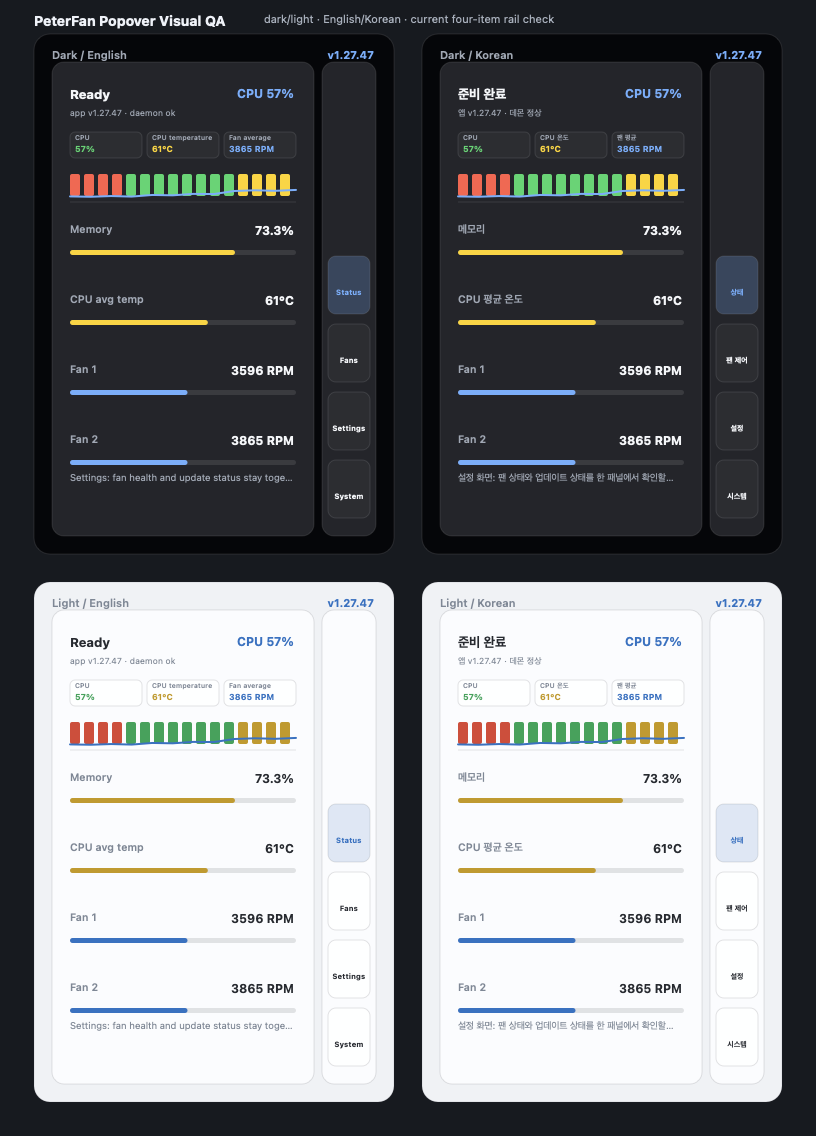
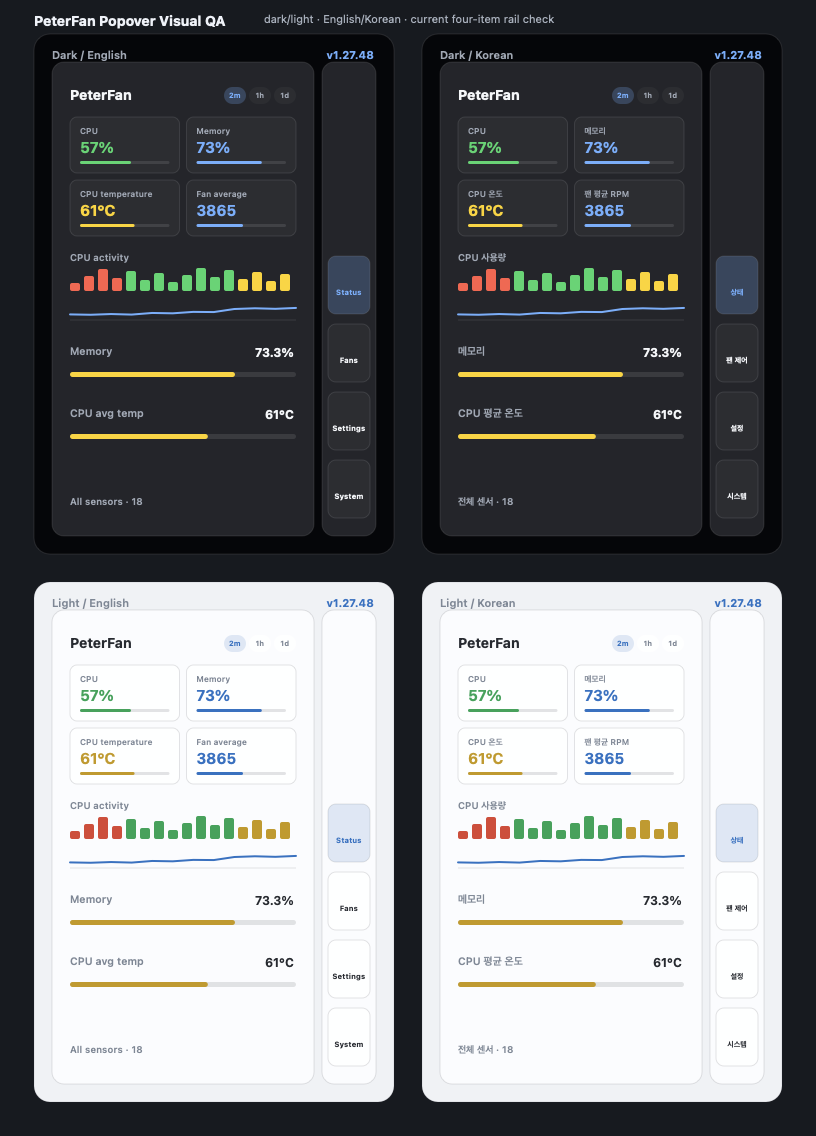
style(design): FINDING-001 — strengthen live status hierarchy

diff --git a/scripts/render-popover-qa.swift b/scripts/render-popover-qa.swift
@@ -152,50 +152,60 @@ func drawCase(_ spec: CaseSpec, origin: CGPoint) {
     rounded(panel, radius: 12, fill: p.panel, stroke: p.line)
     rounded(rail, radius: 12, fill: p.panel, stroke: p.line)
 
-    text(label("Ready", "준비 완료", spec), NSRect(x: panel.minX + 18, y: panel.maxY - 42, width: 132, height: 18), 13, p.text, weight: .bold)
-    text(label("CPU 57%", "CPU 57%", spec), NSRect(x: panel.maxX - 90, y: panel.maxY - 42, width: 70, height: 18), 12, p.accent, weight: .bold, align: .right)
-    text(label("app v\(version) · daemon ok", "앱 v\(version) · 데몬 정상", spec), NSRect(x: panel.minX + 18, y: panel.maxY - 62, width: 214, height: 16), 8.5, p.dim)
-
-    let summary: [(String, String, NSColor)] = [
-        (label("CPU", "CPU", spec), "57%", p.green),
-        (label("CPU temperature", "CPU 온도", spec), "61°C", p.yellow),
-        (label("Fan average", "팬 평균", spec), "3865 RPM", p.accent),
-    ]
-    let summaryGap: CGFloat = 5
-    let summaryWidth = (226 - summaryGap * 2) / 3
-    for (index, item) in summary.enumerated() {
-        let x = panel.minX + 18 + CGFloat(index) * (summaryWidth + summaryGap)
-        rounded(NSRect(x: x, y: panel.maxY - 96, width: summaryWidth, height: 26), radius: 5, fill: p.section, stroke: p.line)
-        text(item.0, NSRect(x: x + 5, y: panel.maxY - 82, width: summaryWidth - 10, height: 10), 6.7, p.dim, weight: .semibold)
-        text(item.1, NSRect(x: x + 5, y: panel.maxY - 92, width: summaryWidth - 10, height: 10), 8.4, item.2, weight: .bold)
+    text("PeterFan", NSRect(x: panel.minX + 18, y: panel.maxY - 42, width: 110, height: 18), 14, p.text, weight: .bold)
+    let ranges = ["2m", "1h", "1d"]
+    for (index, range) in ranges.enumerated() {
+        let x = panel.maxX - 90 + CGFloat(index) * 25
+        let selected = index == 0
+        rounded(
+            NSRect(x: x, y: panel.maxY - 42, width: 22, height: 17),
+            radius: 8.5,
+            fill: selected ? p.accent.withAlphaComponent(spec.isDark ? 0.24 : 0.15) : p.section
+        )
+        text(range, NSRect(x: x, y: panel.maxY - 39, width: 22, height: 10), 7.2, selected ? p.accent : p.dim, weight: .bold, align: .center)
     }
 
-    let barsY = panel.maxY - 134
+    let summary: [(String, String, CGFloat, NSColor)] = [
+        (label("CPU", "CPU", spec), "57%", 0.57, p.green),
+        (label("Memory", "메모리", spec), "73%", 0.73, p.accent),
+        (label("CPU temperature", "CPU 온도", spec), "61°C", 0.61, p.yellow),
+        (label("Fan average", "팬 평균 RPM", spec), "3865", 0.52, p.accent),
+    ]
+    let summaryGap: CGFloat = 7
+    let summaryWidth = (226 - summaryGap) / 2
+    let summaryHeight: CGFloat = 56
+    for (index, item) in summary.enumerated() {
+        let column = index % 2
+        let row = index / 2
+        let x = panel.minX + 18 + CGFloat(column) * (summaryWidth + summaryGap)
+        let y = panel.maxY - 111 - CGFloat(row) * (summaryHeight + summaryGap)
+        rounded(NSRect(x: x, y: y, width: summaryWidth, height: summaryHeight), radius: 7, fill: p.section, stroke: p.line)
+        text(item.0, NSRect(x: x + 10, y: y + 35, width: summaryWidth - 20, height: 12), 8.2, p.dim, weight: .semibold)
+        text(item.1, NSRect(x: x + 10, y: y + 16, width: summaryWidth - 20, height: 19), 15, item.3, weight: .bold)
+        meter(NSRect(x: x + 10, y: y + 9, width: summaryWidth - 20, height: 3), value: item.2, color: item.3, palette: p)
+    }
+
+    text(label("CPU activity", "CPU 사용량", spec), NSRect(x: panel.minX + 18, y: panel.maxY - 204, width: 120, height: 14), 9.5, p.dim, weight: .semibold)
+    let barsY = panel.maxY - 229
     for i in 0..<16 {
         let color = i < 4 ? p.red : (i < 12 ? p.green : p.yellow)
-        rounded(NSRect(x: panel.minX + 18 + CGFloat(i) * 14, y: barsY, width: 10, height: 22), radius: 2, fill: color)
+        let height: CGFloat = 8 + CGFloat((i * 7) % 16)
+        rounded(NSRect(x: panel.minX + 18 + CGFloat(i) * 14, y: barsY, width: 10, height: height), radius: 2, fill: color)
     }
-    sparkline(NSRect(x: panel.minX + 18, y: panel.maxY - 148, width: 226, height: 34), values: [0.2, 0.18, 0.22, 0.19, 0.28, 0.26, 0.34, 0.33, 0.50, 0.54, 0.51, 0.56], palette: p)
+    sparkline(NSRect(x: panel.minX + 18, y: panel.maxY - 266, width: 226, height: 34), values: [0.2, 0.18, 0.22, 0.19, 0.28, 0.26, 0.34, 0.33, 0.50, 0.54, 0.51, 0.56], palette: p)
 
     let rows: [(String, String, CGFloat, NSColor)] = [
         (label("Memory", "메모리", spec), "73.3%", 0.73, p.yellow),
         (label("CPU avg temp", "CPU 평균 온도", spec), "61°C", 0.61, p.yellow),
-        (label("Fan 1", "Fan 1", spec), "3596 RPM", 0.52, p.accent),
-        (label("Fan 2", "Fan 2", spec), "3865 RPM", 0.52, p.accent),
     ]
     for (index, row) in rows.enumerated() {
-        let y = panel.maxY - 206 - CGFloat(index) * 70
+        let y = panel.maxY - 328 - CGFloat(index) * 62
         text(row.0, NSRect(x: panel.minX + 18, y: y + 28, width: 128, height: 17), 10.5, p.dim, weight: .semibold)
         text(row.1, NSRect(x: panel.maxX - 92, y: y + 28, width: 72, height: 17), 12, p.text, weight: .bold, align: .right)
         meter(NSRect(x: panel.minX + 18, y: y + 13, width: 226, height: 5), value: row.2, color: row.3, palette: p)
     }
 
-    let notes = label(
-        "Settings: fan health and update status stay together in one compact pane.",
-        "설정 화면: 팬 상태와 업데이트 상태를 한 패널에서 확인할 수 있어야 합니다.",
-        spec
-    )
-    text(notes, NSRect(x: panel.minX + 18, y: panel.minY + 20, width: 226, height: 44), 9.5, p.dim)
+    text(label("All sensors · 18", "전체 센서 · 18", spec), NSRect(x: panel.minX + 18, y: panel.minY + 24, width: 226, height: 16), 9.5, p.dim, weight: .semibold)
 
     let railLabels = [
         label("Status", "상태", spec),

diff --git a/packages/menubar/src/main.rs b/packages/menubar/src/main.rs
@@ -5069,6 +5069,38 @@ body.compact[data-rail-view="system"] .foot.compact-extra{display:block!importan
 .range-tab{background:var(--chip-bg);border:1px solid transparent;color:var(--dim);font:inherit;font-size:9.5px;font-weight:600;padding:3px 9px;border-radius:99px;cursor:pointer;transition:background .15s,color .15s;}
 .range-tab:hover{background:var(--chip-hover);}
 .range-tab.active{background:rgba(91,157,255,.22);color:var(--accent);}
+/* Product hierarchy: strong live summary, quiet detail surfaces, and a compact tool rail. */
+.range-tabs{margin:8px 8px 10px;padding:10px 10px;min-height:44px;border:1px solid var(--line);border-radius:8px;background:var(--chip-bg);}
+.view-title{font-size:16px;font-weight:760;letter-spacing:0;}
+.range-tab{padding:4px 9px;font-size:9px;font-weight:720;}
+.summary-strip{grid-template-columns:repeat(2,minmax(0,1fr));gap:7px;padding:0 14px 14px;}
+.summary-cell{position:relative;min-height:67px;padding:10px 11px 9px;border-radius:8px;background:rgba(255,255,255,.035);overflow:hidden;}
+.summary-cell::after{content:"";position:absolute;inset:auto 0 0;height:1px;background:var(--summary-accent,var(--line));opacity:.7;}
+.summary-cell.cpu{--summary-accent:var(--g);}
+.summary-cell.memory{--summary-accent:var(--accent);}
+.summary-cell.temperature{--summary-accent:var(--y);}
+.summary-cell.fan{--summary-accent:var(--accent);}
+.summary-label{font-size:9.5px;font-weight:680;letter-spacing:0;}
+.summary-value{margin-top:4px;font-size:20px;line-height:1.05;font-weight:760;letter-spacing:0;}
+.summary-meter{display:block;height:3px;margin-top:8px;border-radius:99px;background:var(--track);overflow:hidden;}
+.summary-meter .bar-fill{display:block;}
+.main-pane{background:rgba(255,255,255,.018);}
+.row{grid-template-columns:22px minmax(0,1fr);gap:12px;padding:15px var(--content-x);}
+.ic{opacity:.88;}
+.name{font-size:11px;font-weight:720;}
+.val{font-size:14px;font-weight:720;}
+.sub{margin-top:3px;}
+.cores{height:24px;margin-top:9px;background:rgba(255,255,255,.045);}
+.chart{height:34px;margin-top:10px;}
+.action-rail{gap:5px;padding-top:8px;}
+.rail-btn{height:48px;border-radius:8px;transition:background .15s,color .15s,border-color .15s,box-shadow .15s;}
+.rail-btn svg{width:20px;height:20px;}
+.rail-btn.active{background:rgba(91,157,255,.14);border-color:rgba(91,157,255,.3);box-shadow:inset 2px 0 0 var(--accent);}
+@media (prefers-color-scheme: light){
+.summary-cell{background:rgba(255,255,255,.78);}
+.main-pane{background:rgba(255,255,255,.42);}
+.cores{background:rgba(0,0,0,.055);}
+}
 </style></head><body class="compact" data-rail-view="overview"><div class="panel"><div class="dashboard-shell"><main class="main-pane">
 
 <div class="range-tabs" id="range-tabs">
@@ -5079,9 +5111,10 @@ body.compact[data-rail-view="system"] .foot.compact-extra{display:block!importan
 </div>
 
 <div class="summary-strip" id="summary-strip" aria-label="Live summary">
-<div class="summary-cell"><span class="summary-label" id="summary-cpu-label">CPU</span><span class="summary-value" id="summary-cpu">—</span></div>
-<div class="summary-cell"><span class="summary-label" id="summary-temp-label">CPU temperature</span><span class="summary-value" id="summary-temp">—</span></div>
-<div class="summary-cell"><span class="summary-label" id="summary-fan-label">Fan average</span><span class="summary-value" id="summary-fan">—</span></div>
+<div class="summary-cell cpu"><span class="summary-label" id="summary-cpu-label">CPU</span><span class="summary-value" id="summary-cpu">—</span><span class="summary-meter"><span class="bar-fill" id="summary-cpu-bar"></span></span></div>
+<div class="summary-cell memory"><span class="summary-label" id="summary-mem-label">Memory</span><span class="summary-value" id="summary-mem">—</span><span class="summary-meter"><span class="bar-fill" id="summary-mem-bar"></span></span></div>
+<div class="summary-cell temperature"><span class="summary-label" id="summary-temp-label">CPU temperature</span><span class="summary-value" id="summary-temp">—</span><span class="summary-meter"><span class="bar-fill" id="summary-temp-bar"></span></span></div>
+<div class="summary-cell fan"><span class="summary-label" id="summary-fan-label">Fan average</span><span class="summary-value" id="summary-fan">—</span><span class="summary-meter"><span class="bar-fill info" id="summary-fan-bar"></span></span></div>
 </div>
 
 <div class="data-loading" id="data-loading" role="status" aria-live="polite"><span class="data-loading-dot"></span><span id="data-loading-text">Reading system sensors…</span><button class="loading-retry" id="data-loading-retry" style="display:none" onclick="retryDashboard()">Retry</button></div>
@@ -5364,7 +5397,7 @@ function applyRailView(resetScroll){
     ?(LANG==='ko'?'팬 제어':'Fans')
     :(view==='settings'
       ?(LANG==='ko'?'설정':'Settings')
-      :(view==='system'?(LANG==='ko'?'시스템':'System'):(LANG==='ko'?'상태':'Status')));
+      :(view==='system'?(LANG==='ko'?'시스템':'System'):'PeterFan'));
   if(resetScroll)resetRailPaneScroll();
 }
 function applyPopoverMode(){
@@ -5580,10 +5613,19 @@ window.__pf={
  updateRail(d);
  if(view==='overview'){
    set('summary-cpu',d.cpu_text||'—');
+   set('summary-mem',d.mem_text||'—');
    set('summary-temp',d.temp_present?(d.temp_stale?'--°C':(d.temp_text||'—')):'—');
    set('summary-fan',d.fan_avg_rpm_text||'—');
+   bar('summary-cpu-bar',d.cpu_pct||0);
+   bar('summary-mem-bar',d.mem_pct||0,'info');
+   bar('summary-temp-bar',d.temp_stale?0:(d.temp_pct||0),d.temp_stale?'info':(d.temp_cls||''));
+   var fanPcts=(d.fans||[]).map(function(f){return Number(f.pct)||0;});
+   var fanPct=fanPcts.length?fanPcts.reduce(function(sum,p){return sum+p;},0)/fanPcts.length:0;
+   bar('summary-fan-bar',fanPct,'info');
    var summaryCpu=document.getElementById('summary-cpu');
    if(summaryCpu)summaryCpu.className='summary-value '+cls(d.cpu_pct||0);
+   var summaryMem=document.getElementById('summary-mem');
+   if(summaryMem)summaryMem.className='summary-value '+cls(d.mem_pct||0);
    var summaryTemp=document.getElementById('summary-temp');
    if(summaryTemp)summaryTemp.className='summary-value '+(d.temp_stale?'info':(d.temp_cls||''));
    var summaryFan=document.getElementById('summary-fan');
